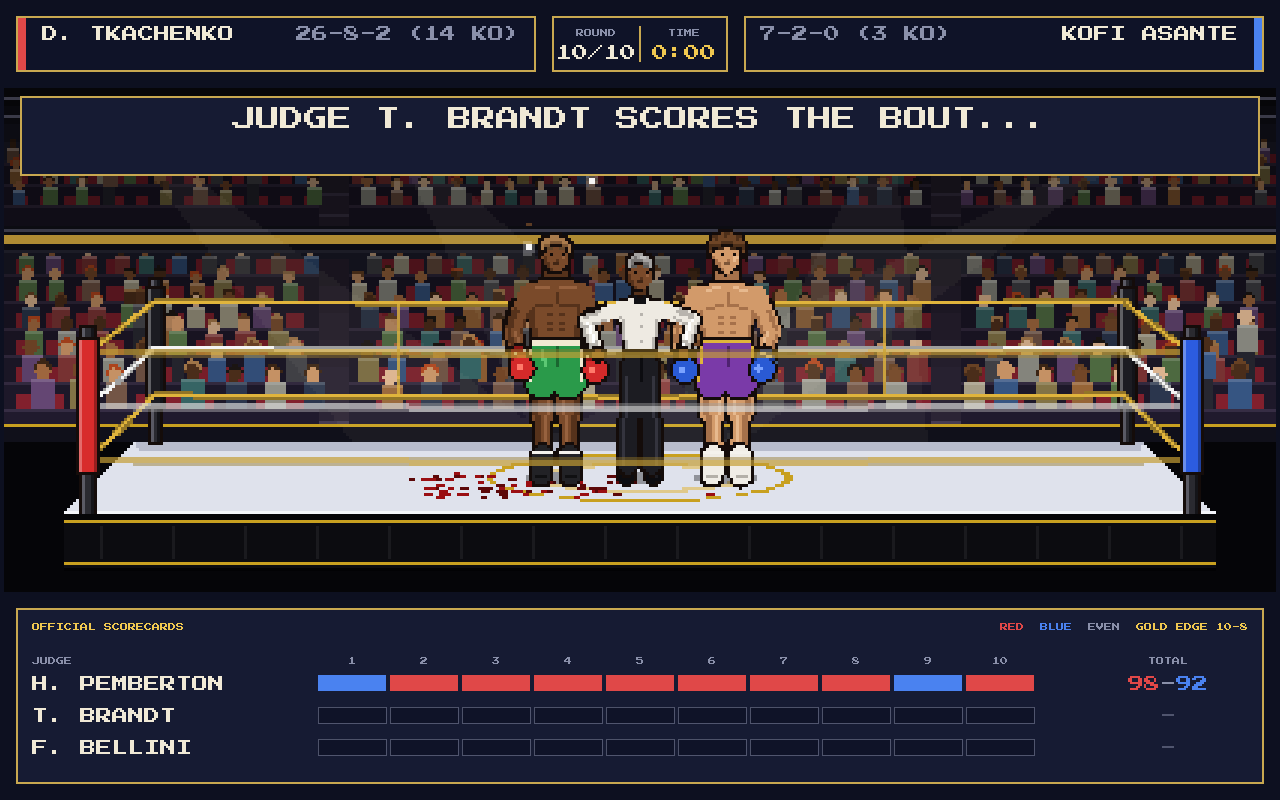
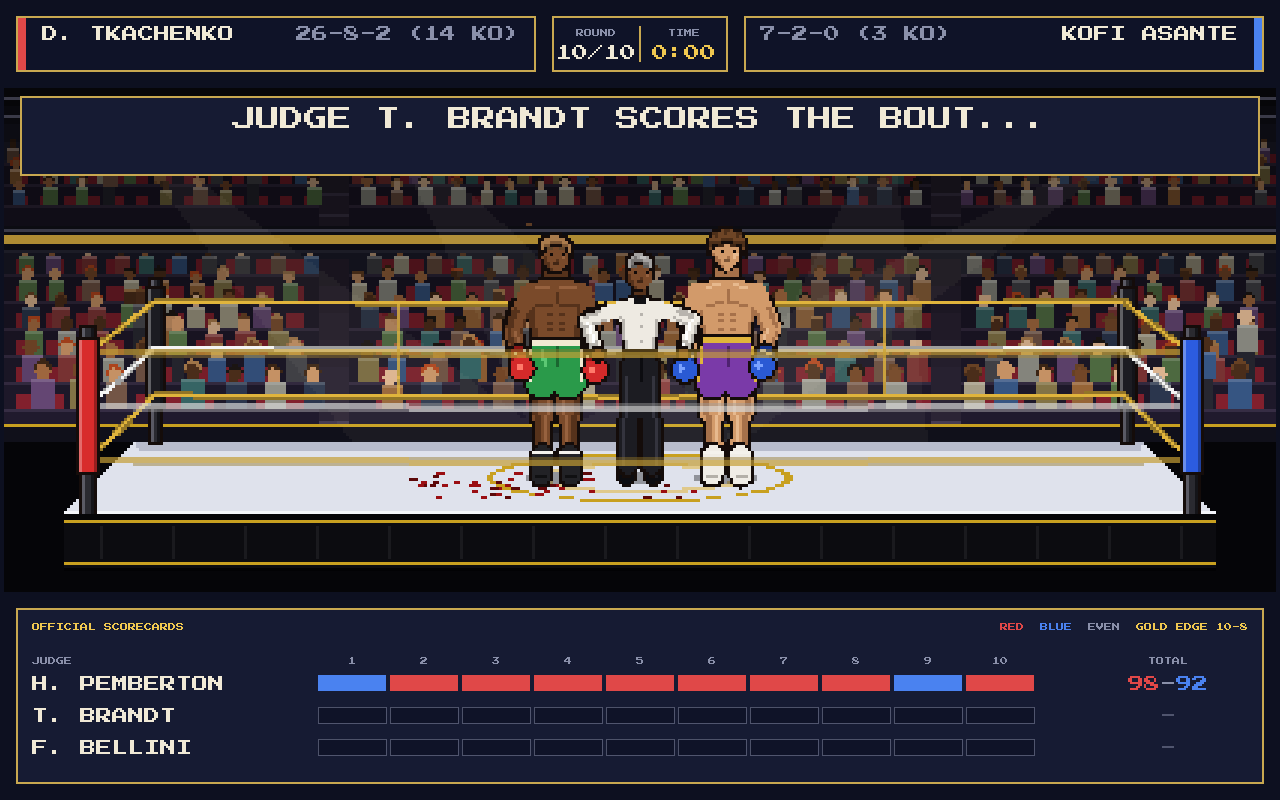
0.1.24: Less blood on big punches
8 - 13 drops a big punch (was 14 - 22), 30% of them 2 pixels across (was
45%), and at most 60 stains on the canvas (was 90).

Claude-Session: https://claude.ai/code/session_01PF6KKrB4uHprcLjw7ppdzy

Changed region(s): [[0.5, 0.2812, 0.625, 0.4688], [0.3125, 0.5938, 0.5, 0.625], [0.4375, 0.2188, 0.4688, 0.25]]

diff --git a/CHANGELOG.md b/CHANGELOG.md
@@ -4,6 +4,12 @@ Every build bumps the last number of the version while the game is a
 prototype. The version lives in `project.godot` (`application/config/version`)
 and is shown on the main menu.
 
+## 0.1.24
+
+* Less blood on big punches: 8 - 13 drops a punch (was 14 - 22), fewer of
+  them the bigger 2-pixel drops (30%, was 45%), and at most 60 stains on
+  the canvas (was 90).
+
 ## 0.1.23
 
 * Fixed: a tall boxer could spend a whole fight walking forward without
